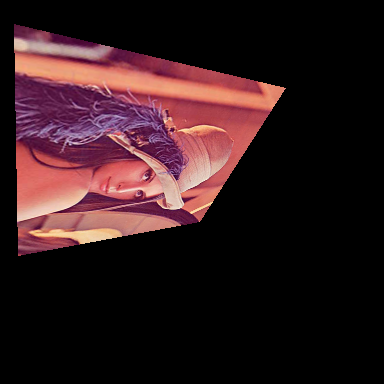
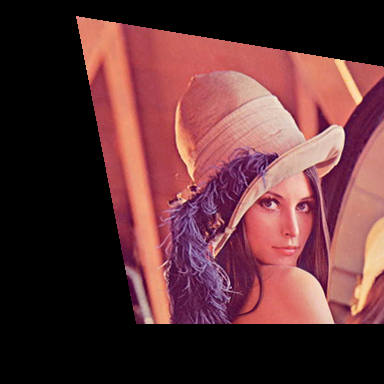
Perspective transform completed

diff --git a/main.py b/main.py
@@ -49,6 +49,21 @@ pg_img:Optional[Surface] = None
 r0 = [ list(i) for i in [(50, 0), (256, 0), (256, 256), (0, 256)]]
 r1 = [ list(i) for i in [(0, 0), (256, 0), (256, 256), (0, 256)]]
 
+def keep_inside():
+    min_x = 0
+    min_y = 0
+    for x,y in r0:
+        if x < min_x:
+            min_x = x
+        if y < min_y:
+            min_y = y
+
+    for v in r0:
+        if min_x < 0:
+            v[0]-=min_x
+        if min_y < 0:
+            v[1]-=min_y
+
 def update():
     global img
     global pg_img
@@ -59,7 +74,7 @@ def update():
     new_width = width + int(round(xshift))
 
     coeffs = find_coeffs(r0,r1)
-
+    keep_inside()
     img = img.transform((int(width*1.5), int(height*1.5)), Image.PERSPECTIVE, coeffs, Image.BICUBIC)
     img.save(res)
 
@@ -69,6 +84,8 @@ def update():
 update()
 
 selected_point = 0
+
+
 
 while not cr.event_holder.should_quit:
 
